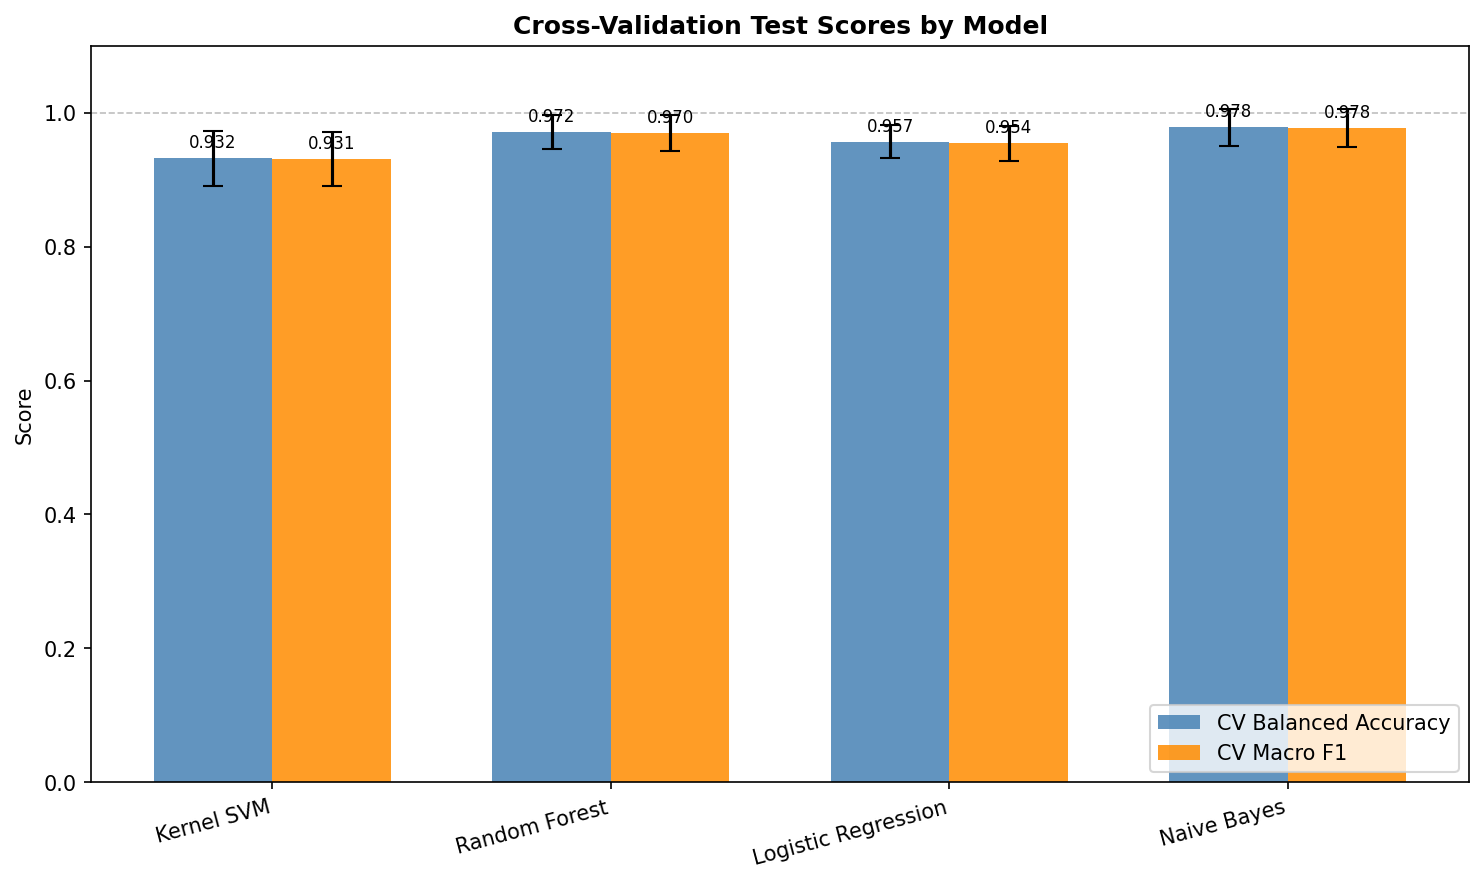
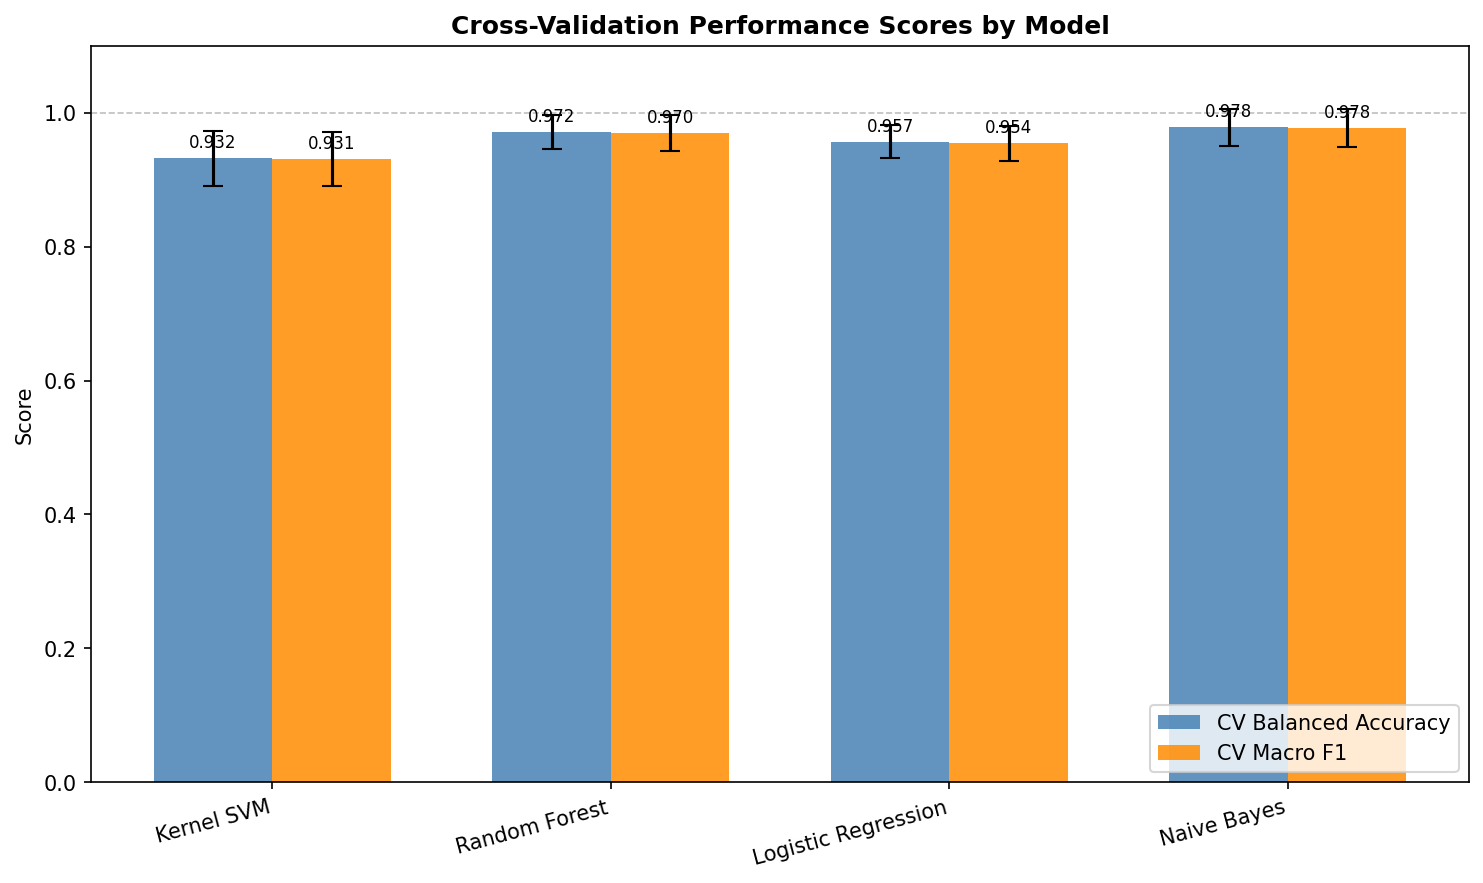
fix: k fold comparison

Changed region(s): [[0.3102, 0.0, 0.7444, 0.0612]]

diff --git a/multiclass.py b/multiclass.py
@@ -617,7 +617,7 @@ def cv_bar_chart(cv_results: dict) -> None:
     ax.set_xticklabels(model_names, rotation=15, ha="right")
     ax.set_ylim(0, 1.1)
     ax.set_ylabel("Score")
-    ax.set_title("Cross-Validation Test Scores by Model", fontweight="bold")
+    ax.set_title("Cross-Validation Performance Scores by Model", fontweight="bold")
     ax.legend(loc="lower right")
     ax.axhline(y=1.0, color="gray", linestyle="--", linewidth=0.8, alpha=0.5)
 
@@ -630,7 +630,6 @@ def cv_bar_chart(cv_results: dict) -> None:
     plt.tight_layout()
     plt.show()
     _save_fig(fig, "cv_comparison_chart.png")
-
 
 # ──────────────────────────────────────────────────────────────────────────────
 # 11. CONFUSION MATRICES
@@ -698,116 +697,6 @@ def feature_importances(rf_search, feature_names_filt):
     _save_fig(fig, "feature_importances.png")
 
 
-
-# ──────────────────────────────────────────────────────────────────────────────
-# 8b. ADJUSTED K-FOLD CROSS VALIDATION (k=7)
-# Normal class has only 7 samples — k=7 guarantees every
-# Normal sample appears in a test fold exactly once
-# ──────────────────────────────────────────────────────────────────────────────
-
-def adjusted_cv_evaluation(svm_search, rf_search, lr_search, nb_search,
-                             X_train_filt, y_train, cv_results_k5):
-    separator("8b. ADJUSTED K-FOLD CV — k=7 (Normal Class Coverage)")
-
-    print("  Normal class has 7 samples — with k=5 some may never be")
-    print("  individually tested. k=7 guarantees each Normal sample")
-    print("  appears in a test fold exactly once.")
-    print(f"\n  Normal class samples      : 7")
-    print(f"  Number of folds           : 7")
-    print(f"  Normal samples / test fold: ~1")
-
-    cv_adjusted = StratifiedKFold(n_splits=7, shuffle=True, random_state=42)
-    cv_scoring  = {
-        "balanced_accuracy": "balanced_accuracy",
-        "macro_f1":          make_scorer(f1_score, average="macro"),
-    }
-    models = {
-        "Kernel SVM":          svm_search.best_estimator_,
-        "Random Forest":       rf_search.best_estimator_,
-        "Logistic Regression": lr_search.best_estimator_,
-        "Naive Bayes":         nb_search.best_estimator_,
-    }
-
-    print("\n  Running 7-fold CV on full training set...")
-    print("  " + "-" * 55)
-
-    adjusted_results = {}
-    for name, model in models.items():
-        scores = cross_validate(
-            model, X_train_filt, y_train,
-            cv=cv_adjusted, scoring=cv_scoring,
-            n_jobs=-1, return_train_score=True,
-        )
-        r = {
-            "Train Bal Acc":    np.round(scores["train_balanced_accuracy"].mean(), 4),
-            "CV Test Bal Acc":  np.round(scores["test_balanced_accuracy"].mean(),  4),
-            "CV Bal Acc Std":   np.round(scores["test_balanced_accuracy"].std(),   4),
-            "Train Macro F1":   np.round(scores["train_macro_f1"].mean(),          4),
-            "CV Test Macro F1": np.round(scores["test_macro_f1"].mean(),           4),
-            "CV F1 Std":        np.round(scores["test_macro_f1"].std(),            4),
-        }
-        adjusted_results[name] = r
-        print(f"\n  {name}")
-        print(f"  Train Balanced Acc  : {r['Train Bal Acc']}")
-        print(f"  CV Test Balanced Acc: {r['CV Test Bal Acc']} (+/- {r['CV Bal Acc Std']})")
-        print(f"  Train Macro F1      : {r['Train Macro F1']}")
-        print(f"  CV Test Macro F1    : {r['CV Test Macro F1']} (+/- {r['CV F1 Std']})")
-        print("  " + "-" * 50)
-
-    # ── Comparison table: k=5 vs k=7 ─────────────────────────────────────────
-    print("\n" + "=" * 75)
-    print("  COMPARISON — k=5 (original) vs k=7 (adjusted)")
-    print("  Metric: CV Test Balanced Accuracy")
-    print("=" * 75)
-    print(f"  {'Model':<22} {'k=5 CV Bal Acc':>16} {'k=7 CV Bal Acc':>16} {'Change':>10}")
-    print("  " + "-" * 68)
-    for name in models.keys():
-        k5   = cv_results_k5[name]["CV Test Balanced Acc"]
-        k7   = adjusted_results[name]["CV Test Bal Acc"]
-        diff = np.round(k7 - k5, 4)
-        direction = "▲" if diff > 0 else ("▼" if diff < 0 else "—")
-        print(f"  {name:<22} {k5:>16.4f} {k7:>16.4f} {direction} {abs(diff):>8.4f}")
-    print("=" * 75)
-
-    # ── Bar chart: k=5 vs k=7 ────────────────────────────────────────────────
-    model_names = list(models.keys())
-    k5_vals = [cv_results_k5[m]["CV Test Balanced Acc"] for m in model_names]
-    k5_stds = [cv_results_k5[m]["CV Test Bal Acc Std"]  for m in model_names]
-    k7_vals = [adjusted_results[m]["CV Test Bal Acc"]   for m in model_names]
-    k7_stds = [adjusted_results[m]["CV Bal Acc Std"]    for m in model_names]
-
-    x, width = np.arange(len(model_names)), 0.35
-    fig, ax = plt.subplots(figsize=(11, 6))
-    bars1 = ax.bar(x - width/2, k5_vals, width,
-                   yerr=k5_stds, capsize=5,
-                   label="k=5 CV (original)",
-                   color="steelblue", alpha=0.85)
-    bars2 = ax.bar(x + width/2, k7_vals, width,
-                   yerr=k7_stds, capsize=5,
-                   label="k=7 CV (adjusted)",
-                   color="darkorange", alpha=0.85)
-
-    ax.set_xticks(x)
-    ax.set_xticklabels(model_names, rotation=15, ha="right")
-    ax.set_ylim(0.85, 1.05)
-    ax.set_ylabel("CV Balanced Accuracy")
-    ax.set_title("k=5 vs k=7 Cross-Validation\nImpact on Normal Class Coverage",
-                 fontweight="bold")
-    ax.legend(loc="lower right")
-    ax.axhline(y=1.0, color="gray", linestyle="--", linewidth=0.8, alpha=0.5)
-    ax.grid(axis="y", alpha=0.3)
-
-    for bar in list(bars1) + list(bars2):
-        ax.text(bar.get_x() + bar.get_width() / 2,
-                bar.get_height() + 0.005,
-                f"{bar.get_height():.3f}",
-                ha="center", va="bottom", fontsize=8)
-
-    plt.tight_layout()
-    plt.show()
-    _save_fig(fig, "kfold_comparison_k5_vs_k7.png")
-
-    return adjusted_results
 
 # ──────────────────────────────────────────────────────────────────────────────
 # MAIN